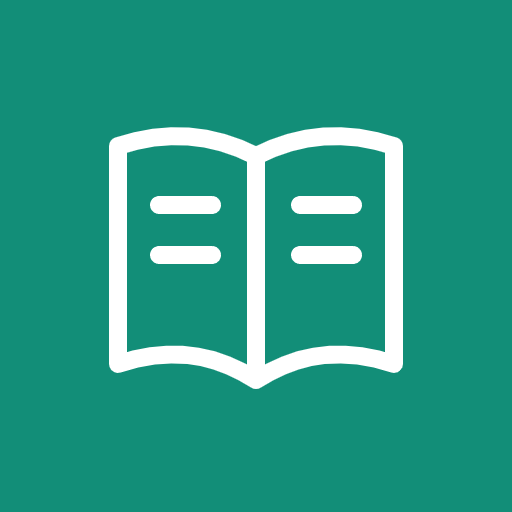
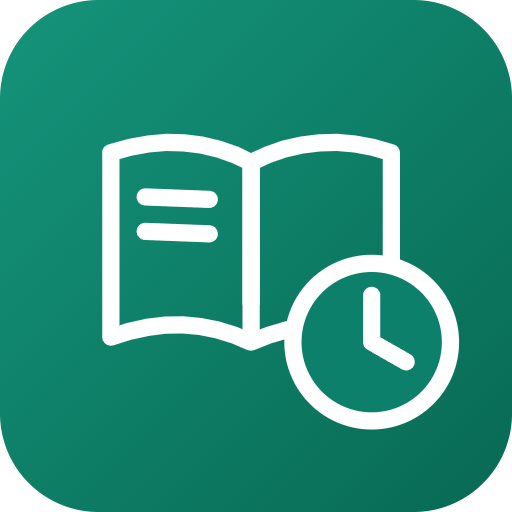
Add files via upload

diff --git a/service-worker.js b/service-worker.js
@@ -1,5 +1,5 @@
-const CACHE='phd-teaching-load-shell-v25-year-label-20261015';
-const SHELL=['./','./index.html','./styles.css?v=25','./data.js?v=25','./app.js?v=25','./manifest.webmanifest','./nubip-logo.png','./icon.svg','./icon-192.png','./icon-512.png'];
+const CACHE='phd-teaching-load-shell-v26-book-clock-20261015';
+const SHELL=['./','./index.html','./styles.css?v=25','./data.js?v=25','./app.js?v=25','./manifest.webmanifest?v=26','./nubip-logo.png','./icon.svg?v=26','./icon-192.png?v=26','./icon-512.png?v=26','./icon-maskable-512.png?v=26','./apple-touch-icon.png?v=26'];
 self.addEventListener('install',event=>event.waitUntil(caches.open(CACHE).then(cache=>cache.addAll(SHELL)).then(()=>self.skipWaiting())));
 self.addEventListener('activate',event=>event.waitUntil(caches.keys().then(keys=>Promise.all(keys.filter(key=>key.startsWith('phd-teaching-load-shell-')&&key!==CACHE).map(key=>caches.delete(key)))).then(()=>self.clients.claim())));
 self.addEventListener('fetch',event=>{
@@ -15,6 +15,7 @@ self.addEventListener('fetch',event=>{
   }catch{return (await cache.match(key))||Response.error();}
  })());
 });
+
 
 
 

diff --git a/index.html b/index.html
@@ -8,9 +8,9 @@
   <meta name="apple-mobile-web-app-capable" content="yes">
   <meta name="apple-mobile-web-app-title" content="Навантаження">
   <title>Педагогічне навантаження (аспірантура) - НУБіП України</title>
-  <link rel="manifest" href="./manifest.webmanifest">
-  <link rel="icon" href="./icon.svg" type="image/svg+xml">
-  <link rel="apple-touch-icon" href="./icon-192.png">
+  <link rel="manifest" href="./manifest.webmanifest?v=26">
+  <link rel="icon" href="./icon.svg?v=26" type="image/svg+xml">
+  <link rel="apple-touch-icon" href="./apple-touch-icon.png?v=26">
   <link rel="stylesheet" href="./styles.css?v=25">
 </head>
 <body>
@@ -102,6 +102,7 @@
   <script src="./app.js?v=25"></script>
 </body>
 </html>
+
 
 
 
